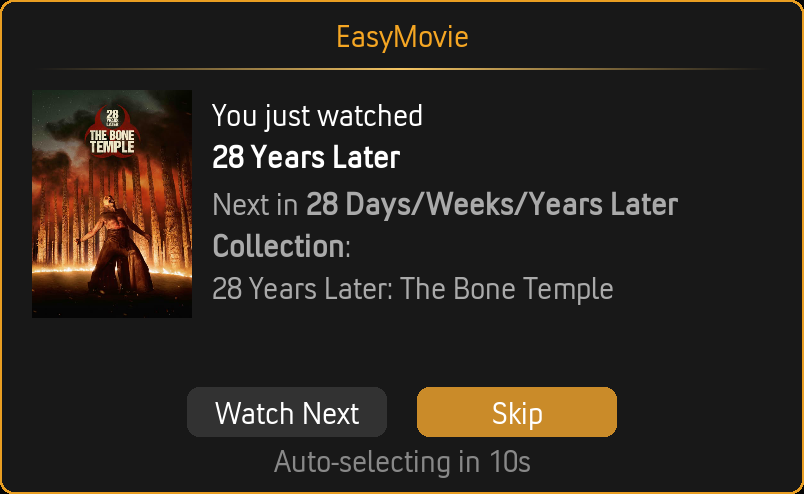
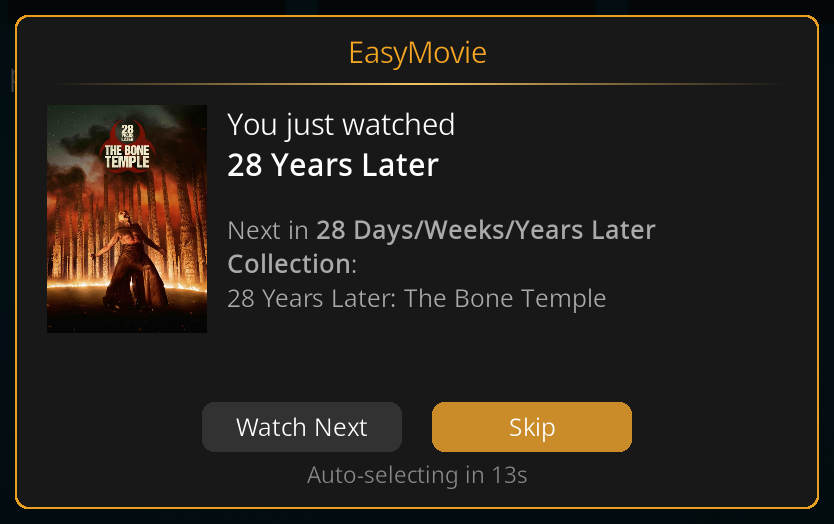
Release v1.1.0 - Enhanced resume dialog with movie details

Changed region(s): [[0.0, 0.0, 1.0, 1.0]]

diff --git a/resources/lib/ui/dialogs.py b/resources/lib/ui/dialogs.py
@@ -41,6 +41,9 @@ CONFIRM_NO = 11
 RESUME_HEADING = 1
 RESUME_MESSAGE = 2
 RESUME_SUBTITLE = 4
+RESUME_META = 5
+RESUME_GENRE = 7
+RESUME_PLOT = 6
 RESUME_YES = 10
 RESUME_NO = 11
 RESUME_POSTER = 20
@@ -208,6 +211,9 @@ class ResumeDialog(xbmcgui.WindowXMLDialog):
         self.title_text = ""
         self.subtitle = ""
         self.poster_url = ""
+        self.meta_text = ""
+        self.genre_text = ""
+        self.plot_text = ""
         self.yes_label = ""
         self.no_label = ""
         self.confirmed = False
@@ -223,6 +229,12 @@ class ResumeDialog(xbmcgui.WindowXMLDialog):
         cast(xbmcgui.ControlLabel, self.getControl(RESUME_SUBTITLE)).setLabel(self.subtitle)
         if self.poster_url:
             cast(xbmcgui.ControlImage, self.getControl(RESUME_POSTER)).setImage(self.poster_url)
+        if self.meta_text:
+            cast(xbmcgui.ControlLabel, self.getControl(RESUME_META)).setLabel(self.meta_text)
+        if self.genre_text:
+            cast(xbmcgui.ControlLabel, self.getControl(RESUME_GENRE)).setLabel(self.genre_text)
+        if self.plot_text:
+            cast(xbmcgui.ControlTextBox, self.getControl(RESUME_PLOT)).setText(self.plot_text)
         if self.yes_label:
             cast(xbmcgui.ControlButton, self.getControl(RESUME_YES)).setLabel(self.yes_label)
         if self.no_label:
@@ -339,6 +351,33 @@ def show_confirm_dialog(
     return dialog.confirmed
 
 
+def _build_meta_line(
+    year: int = 0,
+    mpaa: str = "",
+    rating: float = 0.0,
+    runtime: int = 0,
+) -> str:
+    """Build a metadata line from movie properties (excluding genre).
+
+    Joins non-empty parts with `` · `` (middle dot separator),
+    following the browse view formatting conventions.
+    """
+    parts: List[str] = []
+    if year:
+        parts.append(str(year))
+    if mpaa:
+        parts.append(mpaa)
+    if rating and rating > 0:
+        parts.append("★ %.1f" % rating)
+    runtime_min = runtime // 60 if runtime else 0
+    if runtime_min > 0:
+        if runtime_min >= 60:
+            parts.append("%dh %dm" % (runtime_min // 60, runtime_min % 60))
+        else:
+            parts.append("%dm" % runtime_min)
+    return "  ·  ".join(parts)
+
+
 def show_resume_dialog(
     heading: str,
     title: str,
@@ -347,6 +386,12 @@ def show_resume_dialog(
     yes_label: str = "",
     no_label: str = "",
     addon_id: Optional[str] = None,
+    year: int = 0,
+    rating: float = 0.0,
+    mpaa: str = "",
+    runtime: int = 0,
+    genre: Optional[List[str]] = None,
+    plot: str = "",
 ) -> Optional[bool]:
     """Show a themed resume dialog with movie poster.
 
@@ -358,6 +403,12 @@ def show_resume_dialog(
         yes_label: Custom label for the yes button.
         no_label: Custom label for the no button.
         addon_id: Optional addon ID (for clone support).
+        year: Movie release year.
+        rating: Movie rating (0-10).
+        mpaa: MPAA rating string (e.g. "Rated PG-13").
+        runtime: Total runtime in seconds.
+        genre: List of genre names.
+        plot: Plot synopsis text.
 
     Returns:
         True if user confirmed, False if declined, None if cancelled/back.
@@ -374,6 +425,9 @@ def show_resume_dialog(
     dialog.title_text = f"[B]{title}[/B]"
     dialog.subtitle = f"{remaining_minutes} minutes remaining"
     dialog.poster_url = poster_url
+    dialog.meta_text = _build_meta_line(year, mpaa, rating, runtime)
+    dialog.genre_text = ", ".join(genre) if genre else ""
+    dialog.plot_text = plot
     dialog.yes_label = yes_label
     dialog.no_label = no_label
     dialog.doModal()

diff --git a/resources/dialog_preview.py b/resources/dialog_preview.py
@@ -197,6 +197,40 @@ def preview_select_multi() -> None:
     dialog.notification(_notify_title, "Selected: %s" % result)
 
 
+def preview_resume() -> None:
+    """Show the themed ResumeDialog with movie metadata."""
+    movies = _fetch_preview_movies()
+    if not movies:
+        dialog.ok(_notify_title,
+                   "No movies found in the library.\n"
+                   "Resume preview requires a populated movie library.")
+        return
+
+    movie = movies[0]
+    runtime = movie.get("runtime", 7200)
+    fake_remaining = max(1, (runtime // 60) - 30)
+    art = movie.get("art", {})
+    poster = art.get("poster", "") if isinstance(art, dict) else ""
+
+    from resources.lib.ui.dialogs import show_resume_dialog
+    result = show_resume_dialog(
+        addon_name,
+        movie.get("title", "Preview Movie"),
+        fake_remaining,
+        poster_url=poster,
+        yes_label="Resume",
+        no_label="New Selection",
+        addon_id=addon_id,
+        year=movie.get("year", 0),
+        rating=movie.get("rating", 0.0),
+        mpaa=movie.get("mpaa", ""),
+        runtime=runtime,
+        genre=movie.get("genre"),
+        plot=movie.get("plot", ""),
+    )
+    dialog.notification(_notify_title, "Resume result: %s" % result)
+
+
 def preview_browse() -> None:
     """Show the BrowseWindow — lets user pick which view style to preview."""
     movies = _fetch_preview_movies()
@@ -369,11 +403,12 @@ def Main(override_addon_id: Optional[str] = None) -> None:
             "2. Confirm Dialog (OK only)",
             "3. Select Dialog (single)",
             "4. Select Dialog (multi)",
-            "5. Browse Window",
-            "6. Context Menu",
-            "7. Continuation Dialog (countdown)",
-            "8. Set Warning Dialog (no countdown)",
-            "9. All Dialogs (cycle through)",
+            "5. Resume Dialog",
+            "6. Browse Window",
+            "7. Context Menu",
+            "8. Continuation Dialog (countdown)",
+            "9. Set Warning Dialog (no countdown)",
+            "10. All Dialogs (cycle through)",
         ]
 
         menu_title = "%s Dialog Preview [%s]" % (addon_name, addon_id)
@@ -384,6 +419,7 @@ def Main(override_addon_id: Optional[str] = None) -> None:
             preview_confirm_single,
             preview_select_single,
             preview_select_multi,
+            preview_resume,
             preview_browse,
             preview_context_menu,
             preview_continuation,

diff --git a/resources/lib/ui/context_menu.py b/resources/lib/ui/context_menu.py
@@ -28,6 +28,7 @@ CONTEXT_PLAY_SET = "play_set"
 # Control IDs matching the XML
 _BUTTON_PLAY = 110
 _BUTTON_PLAY_SET = 120
+_BUTTON_PLAY_SINGLE = 130
 
 # Module-level logger
 log = get_logger('ui')
@@ -56,22 +57,21 @@ class ContextMenuWindow(xbmcgui.WindowXMLDialog):
         log.debug("Context menu opened", event="ui.context_open",
                   has_set=self._has_set)
 
-        cast(xbmcgui.ControlButton, self.getControl(_BUTTON_PLAY)).setLabel(
-            lang(32312))  # "Play"
-
-        set_label = lang(32313)  # "Play Full Set"
-        cast(xbmcgui.ControlButton, self.getControl(_BUTTON_PLAY_SET)).setLabel(
-            set_label)
-
-        # Hide "Play Full Set" if movie is not in a set
-        if not self._has_set:
-            self.getControl(_BUTTON_PLAY_SET).setVisible(False)
-
-        self.setFocus(self.getControl(_BUTTON_PLAY))
+        if self._has_set:
+            self.setProperty('EasyMovie.HasSet', 'true')
+            cast(xbmcgui.ControlButton, self.getControl(_BUTTON_PLAY)).setLabel(
+                lang(32312))
+            cast(xbmcgui.ControlButton, self.getControl(_BUTTON_PLAY_SET)).setLabel(
+                lang(32313))
+            self.setFocus(self.getControl(_BUTTON_PLAY))
+        else:
+            cast(xbmcgui.ControlButton, self.getControl(_BUTTON_PLAY_SINGLE)).setLabel(
+                lang(32312))
+            self.setFocus(self.getControl(_BUTTON_PLAY_SINGLE))
 
     def onClick(self, controlId):
         """Handle button clicks."""
-        if controlId == _BUTTON_PLAY:
+        if controlId in (_BUTTON_PLAY, _BUTTON_PLAY_SINGLE):
             self._result = CONTEXT_PLAY
         elif controlId == _BUTTON_PLAY_SET:
             self._result = CONTEXT_PLAY_SET

diff --git a/resources/lib/ui/main.py b/resources/lib/ui/main.py
@@ -423,6 +423,12 @@ def _check_in_progress(
         yes_label="Resume",
         no_label="New Selection",
         addon_id=addon_id,
+        year=movie.get("year", 0),
+        rating=movie.get("rating", 0.0),
+        mpaa=movie.get("mpaa", ""),
+        runtime=movie.get("runtime", 0),
+        genre=movie.get("genre"),
+        plot=movie.get("plot", ""),
     )
 
     if confirmed is None:

diff --git a/resources/lib/data/queries.py b/resources/lib/data/queries.py
@@ -195,6 +195,7 @@ def get_in_progress_movies_query() -> Dict[str, Any]:
             "properties": [
                 "title", "runtime", "resume", "lastplayed",
                 "art", "set", "setid",
+                "genre", "year", "rating", "plot", "mpaa",
             ],
             "filter": {
                 "field": "inprogress",

diff --git a/docs/playlist-mode.md b/docs/playlist-mode.md
@@ -72,6 +72,8 @@ When each movie starts playing, EasyMovie can show a notification with the title
 
 When you launch EasyMovie, it can check if you have a partially watched movie and offer to resume it before starting the wizard.
 
+![Resume dialog](assets/screenshots/dialog-resume.png)
+
 **Enable in:** Settings > Playback > On Launch > **Check for in-progress movie on launch**
 
 ---